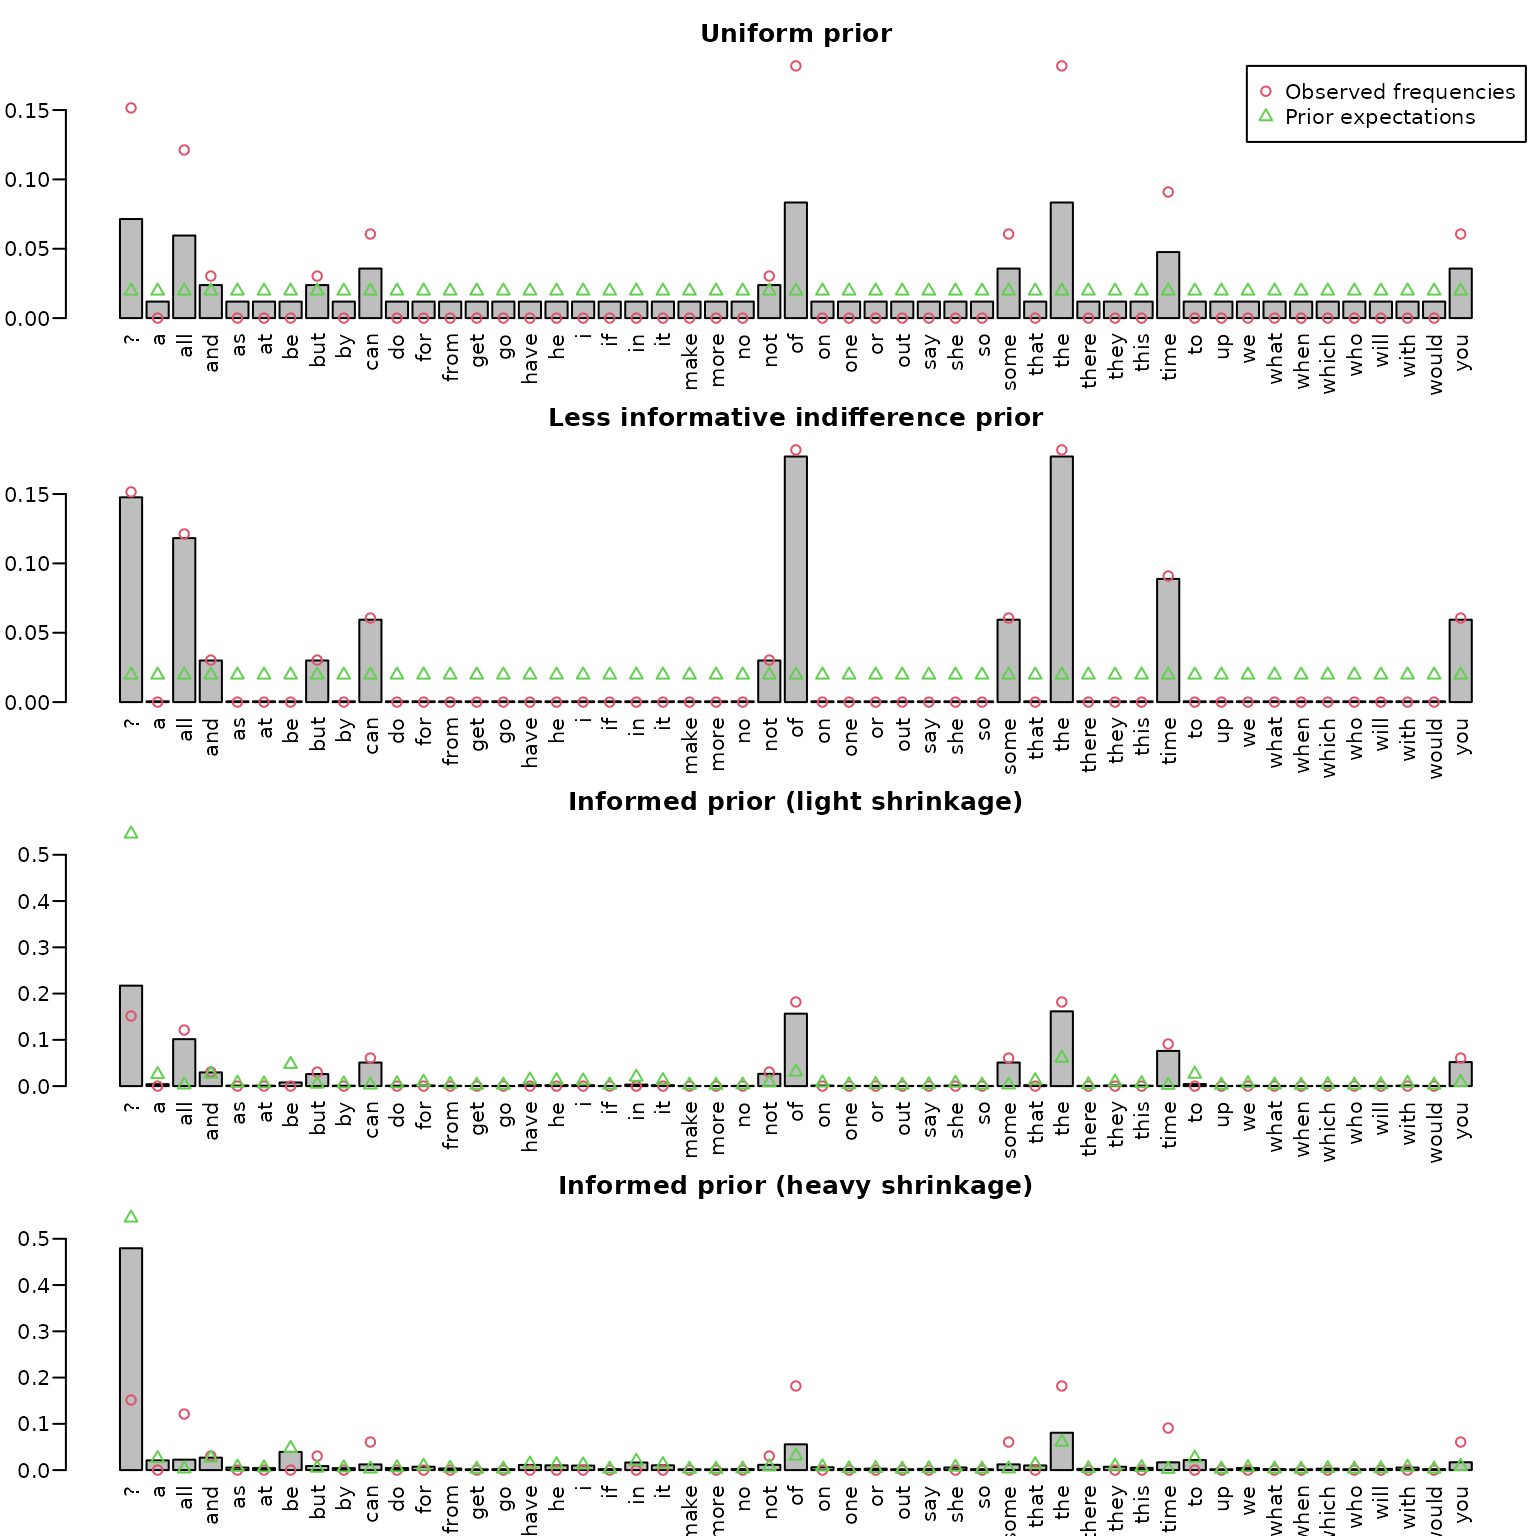
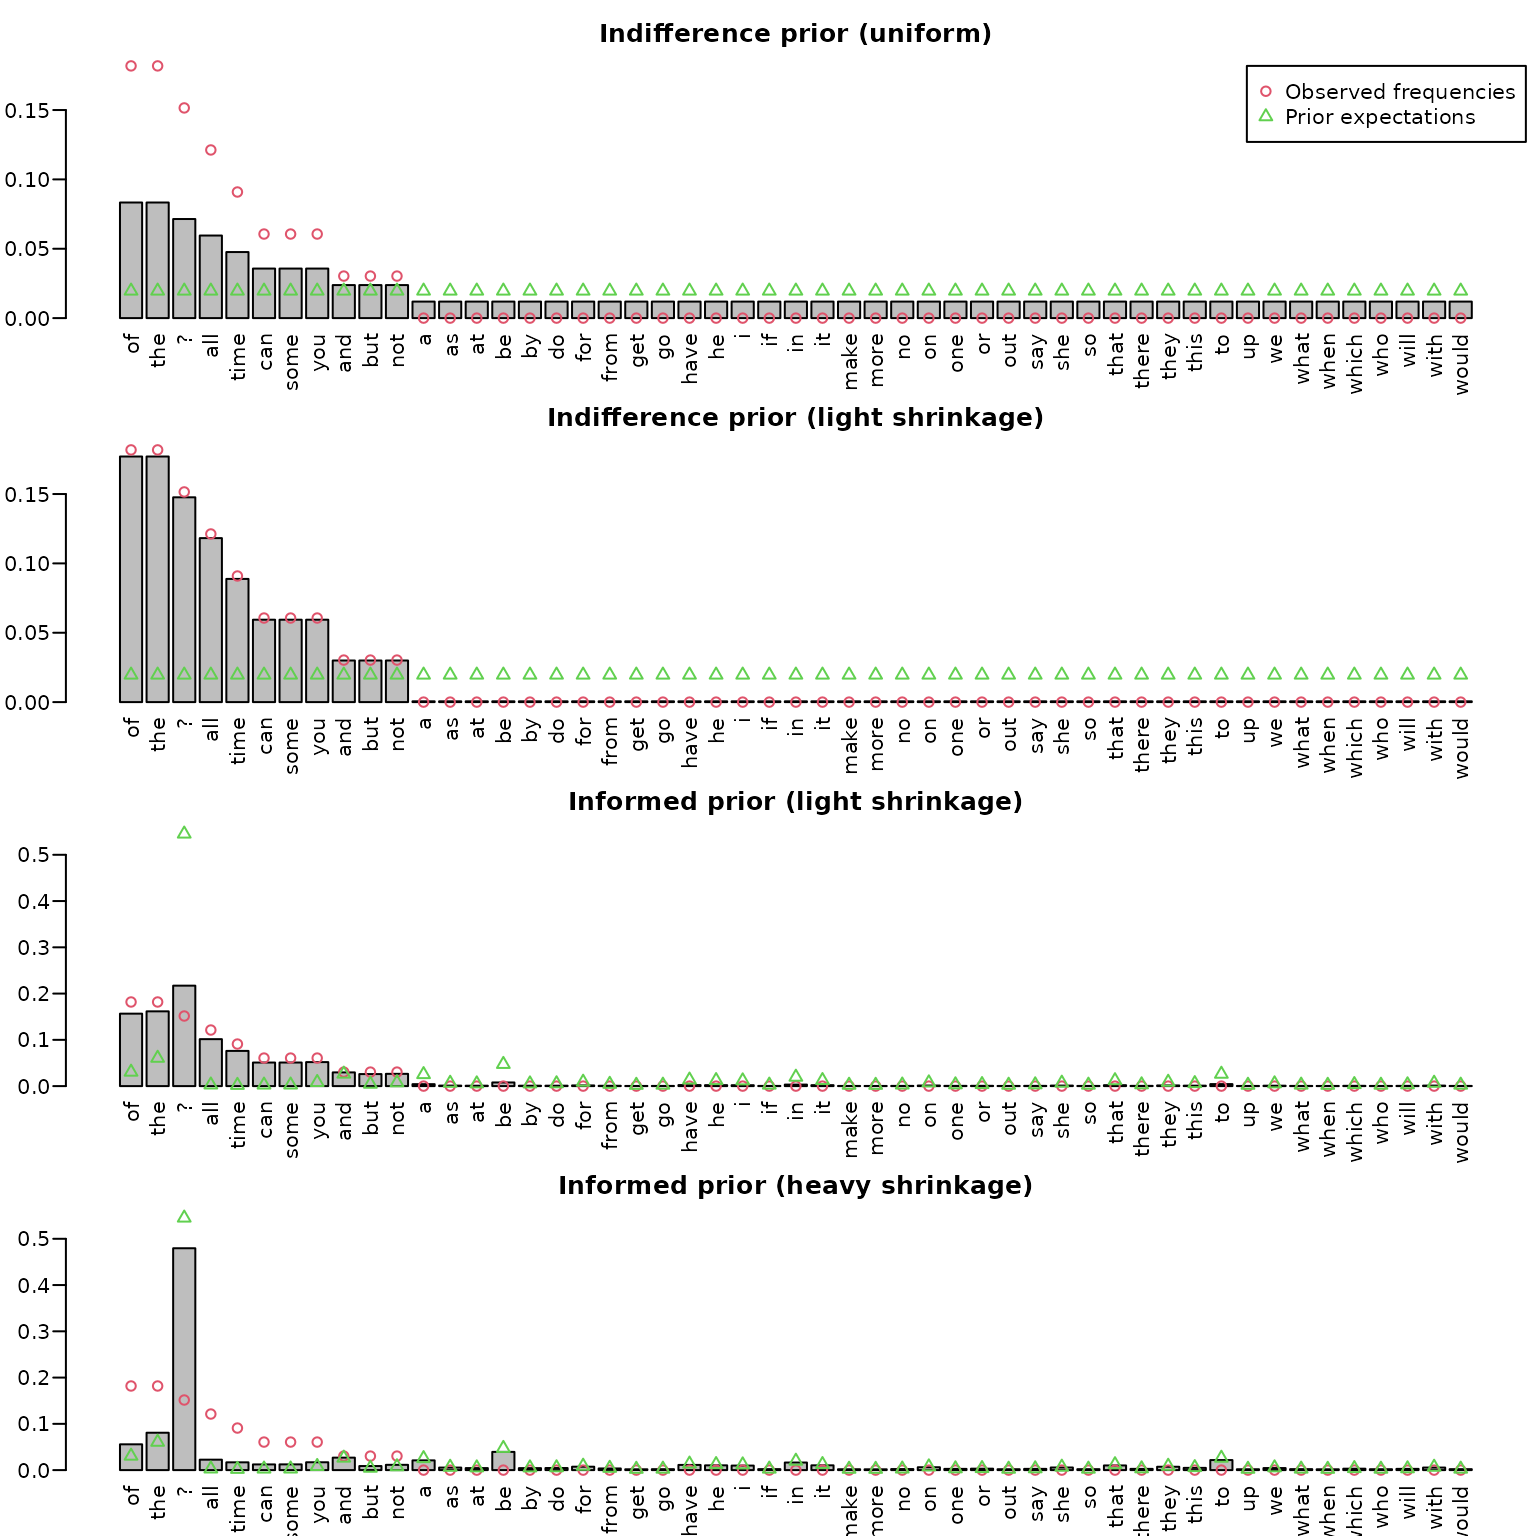
Deploying to gh-pages from @ gregorkastner/BayesianLearningCode@ef60158aa24f44d2088dc16febf3c8601352a39e 🚀

diff --git a/articles/Chapter03.html b/articles/Chapter03.html
@@ -629,39 +629,41 @@ number of pseudo-counts
 </h4>
 <p>To display the results, we use bar plots. We also add the prior
 probabilities of each word via green triangles and the observed relative
-frequencies via red circles.</p>
+frequencies via red circles. Sorting is done via frequency counts.</p>
 <div class="sourceCode" id="cb17"><pre class="downlit sourceCode r">
-<code class="sourceCode R"><span><span class="va">midpts</span> <span class="op">&lt;-</span> <span class="fu"><a href="https://rdrr.io/r/graphics/barplot.html" class="external-link">barplot</a></span><span class="op">(</span><span class="va">post_uniform</span>, las <span class="op">=</span> <span class="fl">2</span>,</span>
+<code class="sourceCode R"><span><span class="va">ord</span> <span class="op">&lt;-</span> <span class="fu"><a href="https://rdrr.io/r/base/order.html" class="external-link">order</a></span><span class="op">(</span><span class="va">counts</span>, decreasing <span class="op">=</span> <span class="cn">TRUE</span><span class="op">)</span></span>
+<span><span class="va">midpts</span> <span class="op">&lt;-</span> <span class="fu"><a href="https://rdrr.io/r/graphics/barplot.html" class="external-link">barplot</a></span><span class="op">(</span><span class="va">post_uniform</span><span class="op">[</span><span class="va">ord</span><span class="op">]</span>, las <span class="op">=</span> <span class="fl">2</span>,</span>
 <span>                  ylim <span class="op">=</span> <span class="fu"><a href="https://rdrr.io/r/base/c.html" class="external-link">c</a></span><span class="op">(</span><span class="fl">0</span>, <span class="fu"><a href="https://rdrr.io/r/base/Extremes.html" class="external-link">max</a></span><span class="op">(</span><span class="va">counts</span><span class="op">/</span><span class="va">N</span>, <span class="va">post_uniform</span><span class="op">)</span><span class="op">)</span><span class="op">)</span></span>
-<span><span class="fu"><a href="https://rdrr.io/r/graphics/points.html" class="external-link">points</a></span><span class="op">(</span><span class="va">midpts</span>, <span class="va">counts</span><span class="op">/</span><span class="va">N</span>, col <span class="op">=</span> <span class="fl">2</span>, pch <span class="op">=</span> <span class="fl">1</span><span class="op">)</span></span>
+<span><span class="fu"><a href="https://rdrr.io/r/graphics/points.html" class="external-link">points</a></span><span class="op">(</span><span class="va">midpts</span>, <span class="va">counts</span><span class="op">[</span><span class="va">ord</span><span class="op">]</span><span class="op">/</span><span class="va">N</span>, col <span class="op">=</span> <span class="fl">2</span>, pch <span class="op">=</span> <span class="fl">1</span><span class="op">)</span></span>
 <span><span class="fu"><a href="https://rdrr.io/r/graphics/points.html" class="external-link">points</a></span><span class="op">(</span><span class="va">midpts</span>, <span class="fu"><a href="https://rdrr.io/r/base/rep.html" class="external-link">rep</a></span><span class="op">(</span><span class="fl">1</span><span class="op">/</span><span class="fl">51</span>, <span class="fu"><a href="https://rdrr.io/r/base/length.html" class="external-link">length</a></span><span class="op">(</span><span class="va">midpts</span><span class="op">)</span><span class="op">)</span>, col <span class="op">=</span> <span class="fl">3</span>, pch <span class="op">=</span> <span class="fl">2</span><span class="op">)</span></span>
-<span><span class="fu"><a href="https://rdrr.io/r/graphics/title.html" class="external-link">title</a></span><span class="op">(</span><span class="st">"Uniform prior"</span><span class="op">)</span></span>
+<span><span class="fu"><a href="https://rdrr.io/r/graphics/title.html" class="external-link">title</a></span><span class="op">(</span><span class="st">"Indifference prior (uniform)"</span><span class="op">)</span></span>
 <span><span class="fu"><a href="https://rdrr.io/r/graphics/legend.html" class="external-link">legend</a></span><span class="op">(</span><span class="st">"topright"</span>, <span class="fu"><a href="https://rdrr.io/r/base/c.html" class="external-link">c</a></span><span class="op">(</span><span class="st">"Observed frequencies"</span>, <span class="st">"Prior expectations"</span><span class="op">)</span>,</span>
 <span>       col <span class="op">=</span> <span class="fl">2</span><span class="op">:</span><span class="fl">3</span>, pch <span class="op">=</span> <span class="fl">1</span><span class="op">:</span><span class="fl">2</span><span class="op">)</span></span>
 <span></span>
-<span><span class="va">midpts</span> <span class="op">&lt;-</span> <span class="fu"><a href="https://rdrr.io/r/graphics/barplot.html" class="external-link">barplot</a></span><span class="op">(</span><span class="va">post_lessinformative</span>, las <span class="op">=</span> <span class="fl">2</span>,</span>
+<span><span class="va">midpts</span> <span class="op">&lt;-</span> <span class="fu"><a href="https://rdrr.io/r/graphics/barplot.html" class="external-link">barplot</a></span><span class="op">(</span><span class="va">post_lessinformative</span><span class="op">[</span><span class="va">ord</span><span class="op">]</span>, las <span class="op">=</span> <span class="fl">2</span>,</span>
 <span>                  ylim <span class="op">=</span> <span class="fu"><a href="https://rdrr.io/r/base/c.html" class="external-link">c</a></span><span class="op">(</span><span class="fl">0</span>, <span class="fu"><a href="https://rdrr.io/r/base/Extremes.html" class="external-link">max</a></span><span class="op">(</span><span class="va">counts</span><span class="op">/</span><span class="va">N</span>, <span class="va">post_lessinformative</span><span class="op">)</span><span class="op">)</span><span class="op">)</span></span>
-<span><span class="fu"><a href="https://rdrr.io/r/graphics/points.html" class="external-link">points</a></span><span class="op">(</span><span class="va">midpts</span>, <span class="va">counts</span><span class="op">/</span><span class="va">N</span>, col <span class="op">=</span> <span class="fl">2</span>, pch <span class="op">=</span> <span class="fl">1</span><span class="op">)</span></span>
+<span><span class="fu"><a href="https://rdrr.io/r/graphics/points.html" class="external-link">points</a></span><span class="op">(</span><span class="va">midpts</span>, <span class="va">counts</span><span class="op">[</span><span class="va">ord</span><span class="op">]</span><span class="op">/</span><span class="va">N</span>, col <span class="op">=</span> <span class="fl">2</span>, pch <span class="op">=</span> <span class="fl">1</span><span class="op">)</span></span>
 <span><span class="fu"><a href="https://rdrr.io/r/graphics/points.html" class="external-link">points</a></span><span class="op">(</span><span class="va">midpts</span>, <span class="fu"><a href="https://rdrr.io/r/base/rep.html" class="external-link">rep</a></span><span class="op">(</span><span class="fl">1</span><span class="op">/</span><span class="fl">51</span>, <span class="fu"><a href="https://rdrr.io/r/base/length.html" class="external-link">length</a></span><span class="op">(</span><span class="va">midpts</span><span class="op">)</span><span class="op">)</span>, col <span class="op">=</span> <span class="fl">3</span>, pch <span class="op">=</span> <span class="fl">2</span><span class="op">)</span></span>
-<span><span class="fu"><a href="https://rdrr.io/r/graphics/title.html" class="external-link">title</a></span><span class="op">(</span><span class="st">"Less informative indifference prior"</span><span class="op">)</span></span>
+<span><span class="fu"><a href="https://rdrr.io/r/graphics/title.html" class="external-link">title</a></span><span class="op">(</span><span class="st">"Indifference prior (light shrinkage)"</span><span class="op">)</span></span>
 <span></span>
-<span><span class="va">midpts</span> <span class="op">&lt;-</span> <span class="fu"><a href="https://rdrr.io/r/graphics/barplot.html" class="external-link">barplot</a></span><span class="op">(</span><span class="va">post_informed</span>, las <span class="op">=</span> <span class="fl">2</span>,</span>
+<span><span class="va">midpts</span> <span class="op">&lt;-</span> <span class="fu"><a href="https://rdrr.io/r/graphics/barplot.html" class="external-link">barplot</a></span><span class="op">(</span><span class="va">post_informed</span><span class="op">[</span><span class="va">ord</span><span class="op">]</span>, las <span class="op">=</span> <span class="fl">2</span>,</span>
 <span>                   ylim <span class="op">=</span> <span class="fu"><a href="https://rdrr.io/r/base/c.html" class="external-link">c</a></span><span class="op">(</span><span class="fl">0</span>, <span class="fu"><a href="https://rdrr.io/r/base/Extremes.html" class="external-link">max</a></span><span class="op">(</span><span class="va">counts</span><span class="op">/</span><span class="va">N</span>, <span class="va">post_informed</span>, <span class="va">freq</span><span class="op">/</span><span class="fl">10</span><span class="op">^</span><span class="fl">8</span><span class="op">)</span><span class="op">)</span><span class="op">)</span></span>
-<span><span class="fu"><a href="https://rdrr.io/r/graphics/points.html" class="external-link">points</a></span><span class="op">(</span><span class="va">midpts</span>, <span class="va">counts</span><span class="op">/</span><span class="va">N</span>, col <span class="op">=</span> <span class="fl">2</span>, pch <span class="op">=</span> <span class="fl">1</span><span class="op">)</span></span>
-<span><span class="fu"><a href="https://rdrr.io/r/graphics/points.html" class="external-link">points</a></span><span class="op">(</span><span class="va">midpts</span>, <span class="va">freq</span> <span class="op">/</span> <span class="fl">10</span><span class="op">^</span><span class="fl">8</span>, col <span class="op">=</span> <span class="fl">3</span>, pch <span class="op">=</span> <span class="fl">2</span><span class="op">)</span></span>
+<span><span class="fu"><a href="https://rdrr.io/r/graphics/points.html" class="external-link">points</a></span><span class="op">(</span><span class="va">midpts</span>, <span class="va">counts</span><span class="op">[</span><span class="va">ord</span><span class="op">]</span><span class="op">/</span><span class="va">N</span>, col <span class="op">=</span> <span class="fl">2</span>, pch <span class="op">=</span> <span class="fl">1</span><span class="op">)</span></span>
+<span><span class="fu"><a href="https://rdrr.io/r/graphics/points.html" class="external-link">points</a></span><span class="op">(</span><span class="va">midpts</span>, <span class="va">freq</span><span class="op">[</span><span class="va">ord</span><span class="op">]</span> <span class="op">/</span> <span class="fl">10</span><span class="op">^</span><span class="fl">8</span>, col <span class="op">=</span> <span class="fl">3</span>, pch <span class="op">=</span> <span class="fl">2</span><span class="op">)</span></span>
 <span><span class="fu"><a href="https://rdrr.io/r/graphics/title.html" class="external-link">title</a></span><span class="op">(</span><span class="st">"Informed prior (light shrinkage)"</span><span class="op">)</span></span>
 <span></span>
-<span><span class="va">midpts</span> <span class="op">&lt;-</span> <span class="fu"><a href="https://rdrr.io/r/graphics/barplot.html" class="external-link">barplot</a></span><span class="op">(</span><span class="va">post_informed2</span>, las <span class="op">=</span> <span class="fl">2</span>,</span>
+<span><span class="va">midpts</span> <span class="op">&lt;-</span> <span class="fu"><a href="https://rdrr.io/r/graphics/barplot.html" class="external-link">barplot</a></span><span class="op">(</span><span class="va">post_informed2</span><span class="op">[</span><span class="va">ord</span><span class="op">]</span>, las <span class="op">=</span> <span class="fl">2</span>,</span>
 <span>                   ylim <span class="op">=</span> <span class="fu"><a href="https://rdrr.io/r/base/c.html" class="external-link">c</a></span><span class="op">(</span><span class="fl">0</span>, <span class="fu"><a href="https://rdrr.io/r/base/Extremes.html" class="external-link">max</a></span><span class="op">(</span><span class="va">counts</span><span class="op">/</span><span class="va">N</span>, <span class="va">post_informed2</span>, <span class="va">freq</span><span class="op">/</span><span class="fl">10</span><span class="op">^</span><span class="fl">8</span><span class="op">)</span><span class="op">)</span><span class="op">)</span></span>
-<span><span class="fu"><a href="https://rdrr.io/r/graphics/points.html" class="external-link">points</a></span><span class="op">(</span><span class="va">midpts</span>, <span class="va">counts</span><span class="op">/</span><span class="va">N</span>, col <span class="op">=</span> <span class="fl">2</span>, pch <span class="op">=</span> <span class="fl">1</span><span class="op">)</span></span>
-<span><span class="fu"><a href="https://rdrr.io/r/graphics/points.html" class="external-link">points</a></span><span class="op">(</span><span class="va">midpts</span>, <span class="va">freq</span> <span class="op">/</span><span class="fl">10</span><span class="op">^</span><span class="fl">8</span>, col <span class="op">=</span> <span class="fl">3</span>, pch <span class="op">=</span> <span class="fl">2</span><span class="op">)</span></span>
+<span><span class="fu"><a href="https://rdrr.io/r/graphics/points.html" class="external-link">points</a></span><span class="op">(</span><span class="va">midpts</span>, <span class="va">counts</span><span class="op">[</span><span class="va">ord</span><span class="op">]</span><span class="op">/</span><span class="va">N</span>, col <span class="op">=</span> <span class="fl">2</span>, pch <span class="op">=</span> <span class="fl">1</span><span class="op">)</span></span>
+<span><span class="fu"><a href="https://rdrr.io/r/graphics/points.html" class="external-link">points</a></span><span class="op">(</span><span class="va">midpts</span>, <span class="va">freq</span><span class="op">[</span><span class="va">ord</span><span class="op">]</span> <span class="op">/</span><span class="fl">10</span><span class="op">^</span><span class="fl">8</span>, col <span class="op">=</span> <span class="fl">3</span>, pch <span class="op">=</span> <span class="fl">2</span><span class="op">)</span></span>
 <span><span class="fu"><a href="https://rdrr.io/r/graphics/title.html" class="external-link">title</a></span><span class="op">(</span><span class="st">"Informed prior (heavy shrinkage)"</span><span class="op">)</span></span></code></pre></div>
 <p><img src="Chapter03_files/figure-html/unnamed-chunk-19-1.png" width="768"></p>
 <p>In the top panel (based on the uniform prior), we can nicely see the
-<em>add-one smoothing</em> effect, whereas the second panel shows almost
-no smoothing, and unseen words are estimated to be extremely unlikely.
-The two bottom panels show the posteriors under the informed priors, one
-with with light and one heavy shrinkage.</p>
+<em>add-one smoothing</em> effect, i.e., strong shrinkage towards the
+uniform prior, whereas the second panel shows almost no
+smoothing/shrinkage, and unseen words are estimated to be extremely
+unlikely. The two bottom panels show the posteriors under the informed
+priors, one with light and one heavy shrinkage towards the prior.</p>
 </div>
 </div>
 </div>
